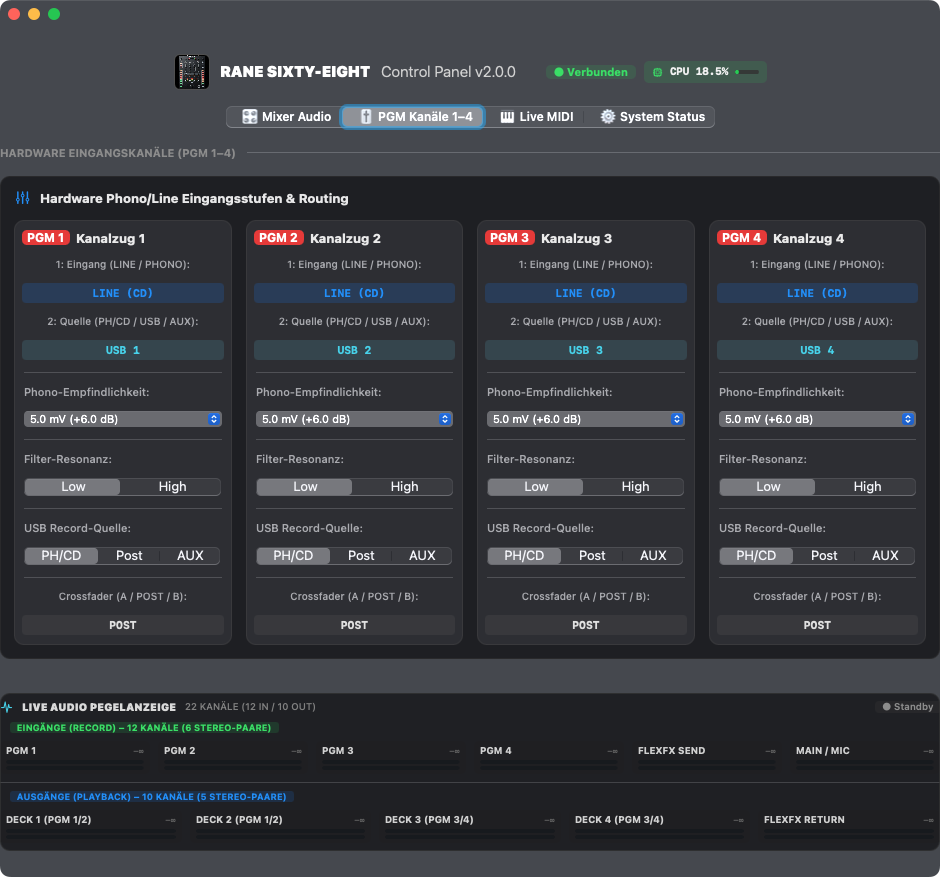
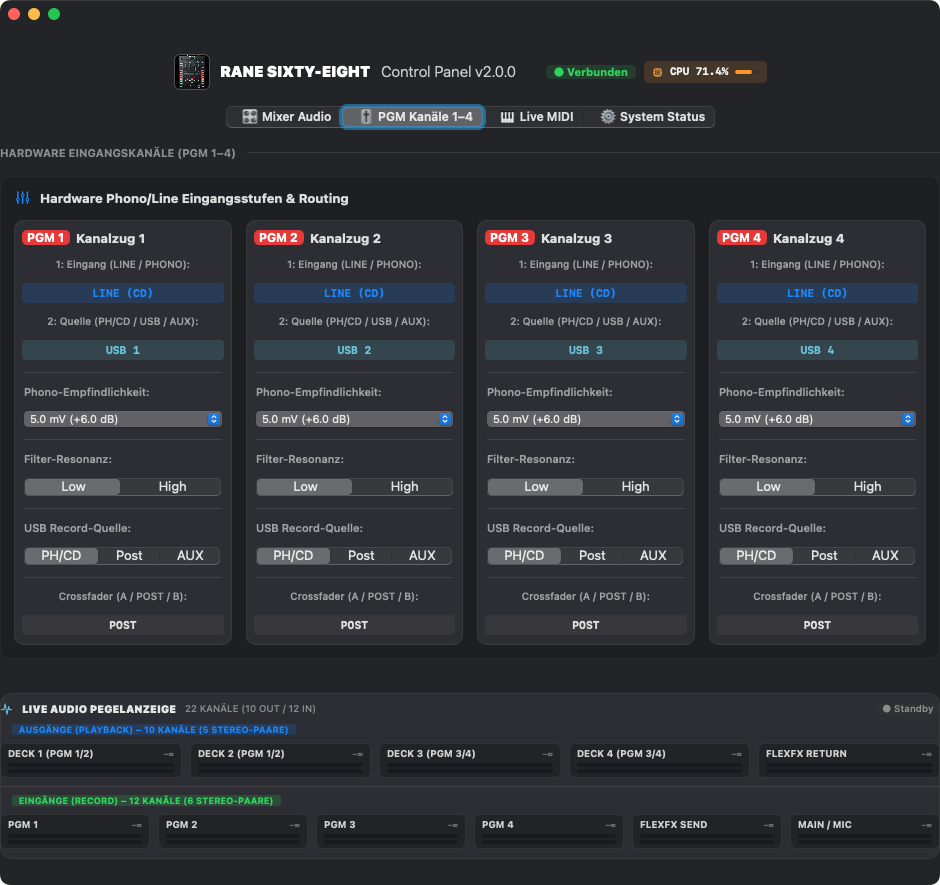
feat(ui): Embed VU meter monitor in channel-strip card style and reorder outputs on top

diff --git a/src/manager/Views/Components/VuMeterView.swift b/src/manager/Views/Components/VuMeterView.swift
@@ -130,8 +130,11 @@ class HorizontalStereoMeterView: NSView {
 
     private func setupUI() {
         wantsLayer = true
-        layer?.cornerRadius = 5
-        layer?.backgroundColor = NSColor(white: 0.12, alpha: 0.40).cgColor
+        layer?.cornerRadius = 6
+        layer?.masksToBounds = true
+        layer?.borderWidth = 1.0
+        layer?.borderColor = NSColor(white: 0.26, alpha: 0.50).cgColor
+        layer?.backgroundColor = NSColor(red: 0.125, green: 0.129, blue: 0.145, alpha: 0.90).cgColor
         translatesAutoresizingMaskIntoConstraints = false
 
         let topRow = NSStackView()
@@ -165,13 +168,13 @@ class HorizontalStereoMeterView: NSView {
         mainStack.orientation = .vertical
         mainStack.alignment = .leading
         mainStack.spacing = 3
-        mainStack.edgeInsets = NSEdgeInsets(top: 4, left: 6, bottom: 4, right: 6)
+        mainStack.edgeInsets = NSEdgeInsets(top: 5, left: 8, bottom: 5, right: 8)
         mainStack.translatesAutoresizingMaskIntoConstraints = false
 
         mainStack.addArrangedSubview(topRow)
         mainStack.addArrangedSubview(barStack)
-        topRow.widthAnchor.constraint(equalTo: mainStack.widthAnchor, constant: -12).isActive = true
-        barStack.widthAnchor.constraint(equalTo: mainStack.widthAnchor, constant: -12).isActive = true
+        topRow.widthAnchor.constraint(equalTo: mainStack.widthAnchor, constant: -16).isActive = true
+        barStack.widthAnchor.constraint(equalTo: mainStack.widthAnchor, constant: -16).isActive = true
 
         addSubview(mainStack)
         NSLayoutConstraint.activate([
@@ -252,18 +255,18 @@ class RaneIOMonitorBarView: NSView {
 
     private func setupUI() {
         wantsLayer = true
-        layer?.cornerRadius = 10
+        layer?.cornerRadius = 12
         layer?.masksToBounds = true
         layer?.borderWidth = 1.0
-        layer?.borderColor = NSColor(white: 0.22, alpha: 0.6).cgColor
-        layer?.backgroundColor = NSColor(red: 0.122, green: 0.125, blue: 0.141, alpha: 1.0).cgColor
+        layer?.borderColor = NSColor(white: 0.28, alpha: 0.45).cgColor
+        layer?.backgroundColor = NSColor(red: 0.176, green: 0.180, blue: 0.200, alpha: 1.0).cgColor
         translatesAutoresizingMaskIntoConstraints = false
 
         let rootStack = NSStackView()
         rootStack.orientation = .vertical
         rootStack.alignment = .leading
         rootStack.spacing = 8
-        rootStack.edgeInsets = NSEdgeInsets(top: 8, left: 12, bottom: 8, right: 12)
+        rootStack.edgeInsets = NSEdgeInsets(top: 10, left: 14, bottom: 10, right: 14)
         rootStack.translatesAutoresizingMaskIntoConstraints = false
         addSubview(rootStack)
 
@@ -290,12 +293,12 @@ class RaneIOMonitorBarView: NSView {
 
         let headerTitle = NSTextField(labelWithString: Localization.tr(en: "LIVE AUDIO I/O MONITOR", de: "LIVE AUDIO PEGELANZEIGE"))
         headerTitle.font = NSFont.systemFont(ofSize: 10.5, weight: .black)
-        headerTitle.textColor = NSColor(white: 0.85, alpha: 1.0)
+        headerTitle.textColor = NSColor(white: 0.90, alpha: 1.0)
         headerRow.addArrangedSubview(headerTitle)
 
-        let headerSub = NSTextField(labelWithString: Localization.tr(en: "22 CHANNELS (12 IN / 10 OUT)", de: "22 KANÄLE (12 IN / 10 OUT)"))
+        let headerSub = NSTextField(labelWithString: Localization.tr(en: "22 CHANNELS (10 OUT / 12 IN)", de: "22 KANÄLE (10 OUT / 12 IN)"))
         headerSub.font = NSFont.systemFont(ofSize: 9.5, weight: .medium)
-        headerSub.textColor = NSColor(white: 0.50, alpha: 1.0)
+        headerSub.textColor = NSColor(white: 0.55, alpha: 1.0)
         headerRow.addArrangedSubview(headerSub)
 
         let gap = NSView()
@@ -312,38 +315,7 @@ class RaneIOMonitorBarView: NSView {
         rootStack.addArrangedSubview(headerRow)
         headerRow.widthAnchor.constraint(equalTo: rootStack.widthAnchor).isActive = true
 
-        // 2. INPUTS SECTION (Top Row - 6 Stereo Pairs)
-        let inRowHeader = NSStackView()
-        inRowHeader.orientation = .horizontal
-        inRowHeader.alignment = .centerY
-        inRowHeader.spacing = 6
-        let inTag = NSTextField(labelWithString: Localization.tr(en: "  INPUTS (USB RECORD) – 12 CHANNELS (6 PAIRS)  ", de: "  EINGÄNGE (RECORD) – 12 KANÄLE (6 STEREO-PAARE)  "))
-        inTag.font = NSFont.boldSystemFont(ofSize: 9.0)
-        inTag.textColor = NSColor.systemGreen
-        inTag.wantsLayer = true
-        inTag.layer?.backgroundColor = NSColor.systemGreen.withAlphaComponent(0.15).cgColor
-        inTag.layer?.cornerRadius = 3
-        inRowHeader.addArrangedSubview(inTag)
-        rootStack.addArrangedSubview(inRowHeader)
-
-        let inGrid = NSStackView()
-        inGrid.orientation = .horizontal
-        inGrid.distribution = .fillEqually
-        inGrid.spacing = 8
-        inGrid.translatesAutoresizingMaskIntoConstraints = false
-        for m in inMeters {
-            inGrid.addArrangedSubview(m)
-        }
-        rootStack.addArrangedSubview(inGrid)
-        inGrid.widthAnchor.constraint(equalTo: rootStack.widthAnchor).isActive = true
-
-        // 3. Thin separator
-        let sep = NSBox()
-        sep.boxType = .separator
-        rootStack.addArrangedSubview(sep)
-        sep.widthAnchor.constraint(equalTo: rootStack.widthAnchor).isActive = true
-
-        // 4. OUTPUTS SECTION (Bottom Row - 5 Stereo Pairs)
+        // 2. OUTPUTS SECTION (Top Row - 5 Stereo Pairs)
         let outRowHeader = NSStackView()
         outRowHeader.orientation = .horizontal
         outRowHeader.alignment = .centerY
@@ -352,7 +324,7 @@ class RaneIOMonitorBarView: NSView {
         outTag.font = NSFont.boldSystemFont(ofSize: 9.0)
         outTag.textColor = NSColor.systemBlue
         outTag.wantsLayer = true
-        outTag.layer?.backgroundColor = NSColor.systemBlue.withAlphaComponent(0.15).cgColor
+        outTag.layer?.backgroundColor = NSColor.systemBlue.withAlphaComponent(0.18).cgColor
         outTag.layer?.cornerRadius = 3
         outRowHeader.addArrangedSubview(outTag)
         rootStack.addArrangedSubview(outRowHeader)
@@ -367,6 +339,37 @@ class RaneIOMonitorBarView: NSView {
         }
         rootStack.addArrangedSubview(outGrid)
         outGrid.widthAnchor.constraint(equalTo: rootStack.widthAnchor).isActive = true
+
+        // 3. Thin separator
+        let sep = NSBox()
+        sep.boxType = .separator
+        rootStack.addArrangedSubview(sep)
+        sep.widthAnchor.constraint(equalTo: rootStack.widthAnchor).isActive = true
+
+        // 4. INPUTS SECTION (Bottom Row - 6 Stereo Pairs)
+        let inRowHeader = NSStackView()
+        inRowHeader.orientation = .horizontal
+        inRowHeader.alignment = .centerY
+        inRowHeader.spacing = 6
+        let inTag = NSTextField(labelWithString: Localization.tr(en: "  INPUTS (USB RECORD) – 12 CHANNELS (6 PAIRS)  ", de: "  EINGÄNGE (RECORD) – 12 KANÄLE (6 STEREO-PAARE)  "))
+        inTag.font = NSFont.boldSystemFont(ofSize: 9.0)
+        inTag.textColor = NSColor.systemGreen
+        inTag.wantsLayer = true
+        inTag.layer?.backgroundColor = NSColor.systemGreen.withAlphaComponent(0.18).cgColor
+        inTag.layer?.cornerRadius = 3
+        inRowHeader.addArrangedSubview(inTag)
+        rootStack.addArrangedSubview(inRowHeader)
+
+        let inGrid = NSStackView()
+        inGrid.orientation = .horizontal
+        inGrid.distribution = .fillEqually
+        inGrid.spacing = 8
+        inGrid.translatesAutoresizingMaskIntoConstraints = false
+        for m in inMeters {
+            inGrid.addArrangedSubview(m)
+        }
+        rootStack.addArrangedSubview(inGrid)
+        inGrid.widthAnchor.constraint(equalTo: rootStack.widthAnchor).isActive = true
     }
 
     private func connectService() {
